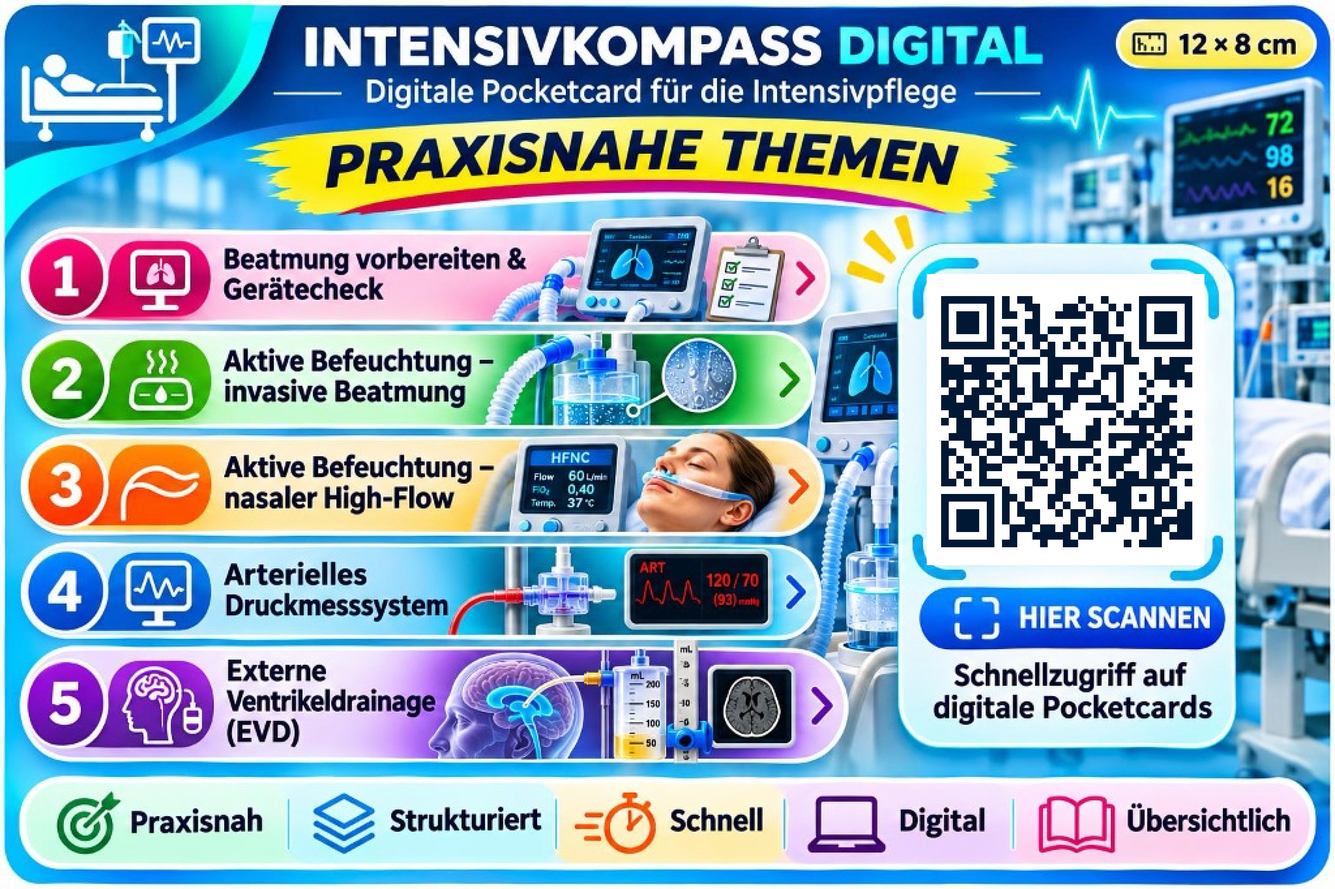
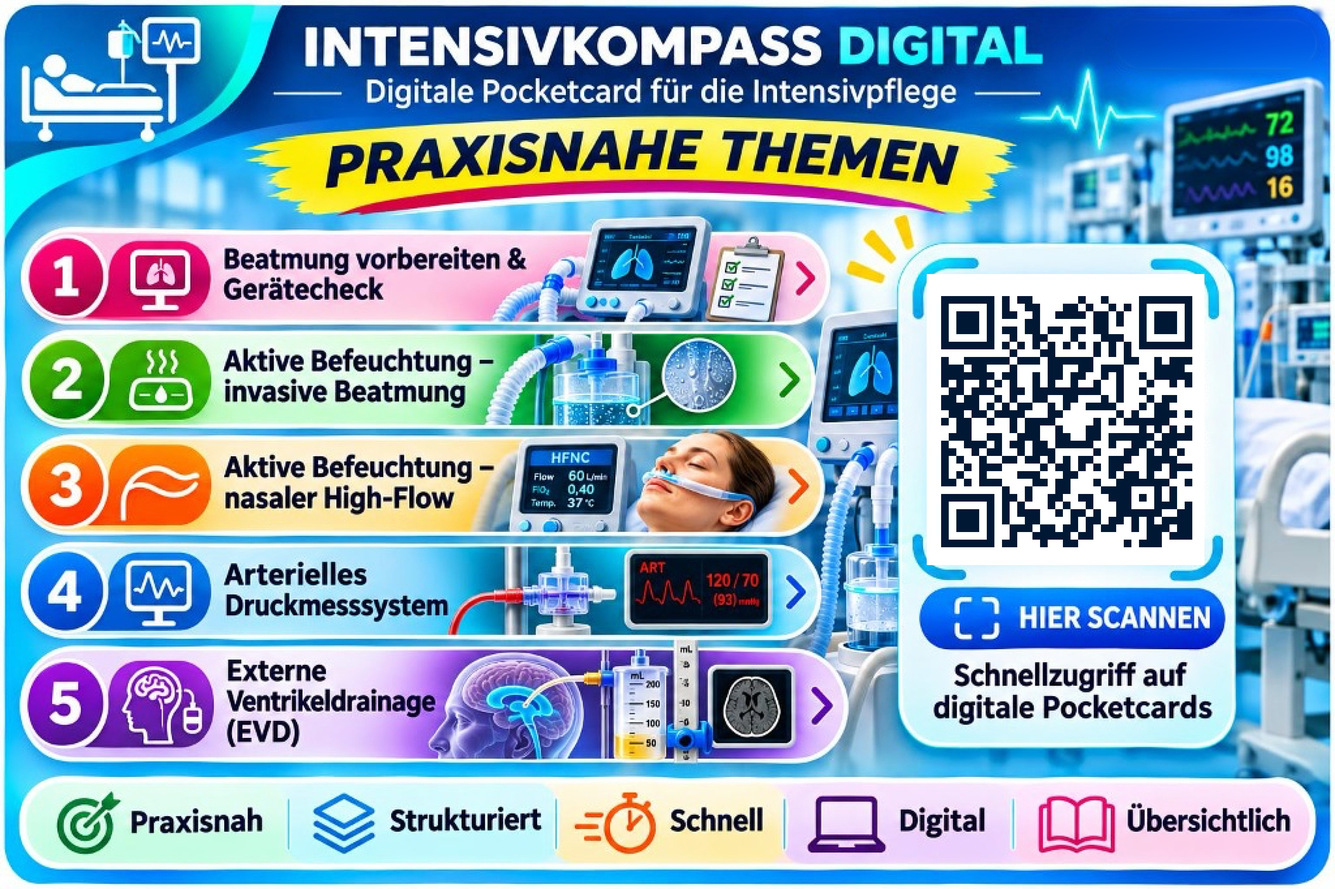
fix(universal-card): remove 12x8 cm badge from card graphics and UI

Changed region(s): [[0.8079, 0.0, 0.9943, 0.0938]]

diff --git a/js/app.js b/js/app.js
@@ -5044,7 +5044,7 @@ function AllQrCodesView({ standards, onSelectStandard, showToast }) {
 }
 
 // -------------------------------------------------------------
-// Component: UniversalCardInteractiveCard (12 × 8 cm Pocketcard)
+// Component: UniversalCardInteractiveCard (Pocketcard)
 // -------------------------------------------------------------
 function UniversalCardInteractiveCard({ isAtm = true, onSelectStandard }) {
   const baseOrigin = (typeof window !== 'undefined' && window.location && window.location.origin)
@@ -5067,9 +5067,9 @@ function UniversalCardInteractiveCard({ isAtm = true, onSelectStandard }) {
       }}
     >
       <div className="universal-card-inner position-relative w-100" style={{ lineHeight: 0 }}>
-        {/* The Exact 12x8 cm Graphic - Master Ultra-HD 300 DPI Asset */}
+        {/* Master Ultra-HD 300 DPI Asset */}
         <img
-          src="assets/universal-card-a4-hd.jpg?v=20261105-33"
+          src="assets/universal-card-a4-hd.jpg?v=20261106-01"
           alt="Intensivkompass Digital – Digitale Pocketcard für die Intensivpflege"
           className="universal-card-img w-100 d-block"
           style={{ imageRendering: '-webkit-optimize-contrast', aspectRatio: '3508 / 2336' }}
@@ -5152,7 +5152,7 @@ function UniversalCardA4Native({ onSelectStandard }) {
       <div className="position-relative w-100" style={{ lineHeight: 0 }}>
         {/* Same Pocketcard Design - Master Ultra-HD 300 DPI Asset */}
         <img
-          src="assets/universal-card-a4-hd.jpg?v=20261105-33"
+          src="assets/universal-card-a4-hd.jpg?v=20261106-01"
           alt="Intensivkompass Digital – DIN A4 Pocketcard Übersicht (Ultra-HD)"
           className="w-100 d-block"
           style={{
@@ -5252,11 +5252,11 @@ function UniversalCardView({ standards, onSelectStandard, showToast }) {
   const handleShareCard = async () => {
     const shareFileName = isA4
       ? 'Intensivkompass-Digital-A4-Uebersicht.jpg'
-      : 'Intensivkompass-Digital-Pocketcard-12x8.jpg';
+      : 'Intensivkompass-Digital-Pocketcard.jpg';
     if (navigator.share) {
       try {
         try {
-          const response = await fetch('assets/universal-card-a4-hd.jpg');
+          const response = await fetch('assets/universal-card-a4-hd.jpg?v=20261106-01');
           const blob = await response.blob();
           const file = new File([blob], shareFileName, { type: 'image/jpeg' });
           if (navigator.canShare && navigator.canShare({ files: [file] })) {
@@ -5366,7 +5366,7 @@ function UniversalCardView({ standards, onSelectStandard, showToast }) {
 
       const opt = {
         margin: [0, 0, 0, 0],
-        filename: 'Intensivkompass_Pocketcard_12x8_DIN_A4.pdf',
+        filename: 'Intensivkompass_Pocketcard_DIN_A4.pdf',
         image: { type: 'jpeg', quality: 0.98 },
         html2canvas: {
           scale: 2,
@@ -5793,7 +5793,7 @@ function UniversalCardView({ standards, onSelectStandard, showToast }) {
               <div className="pocketcard-atm-cutout-frame">
                 <div className="position-relative w-100 h-100" style={{ lineHeight: 0 }}>
                   <img
-                    src="assets/universal-card-a4-hd.jpg?v=20261105-33"
+                    src="assets/universal-card-a4-hd.jpg?v=20261106-01"
                     alt="Intensivkompass Digital – Pocketcard"
                     className="w-100 h-100 d-block"
                     style={{ objectFit: 'cover' }}

diff --git a/index.html b/index.html
@@ -55,7 +55,7 @@
   <script src="js/parser.js?v=20261106-02"></script>
 
   <!-- Main React App Script -->
-  <script type="text/babel" src="js/app.js?v=20261106-05"></script>
+  <script type="text/babel" src="js/app.js?v=20261106-06"></script>
 
   <!-- Service Worker Cleanup Script -->
   <script>
